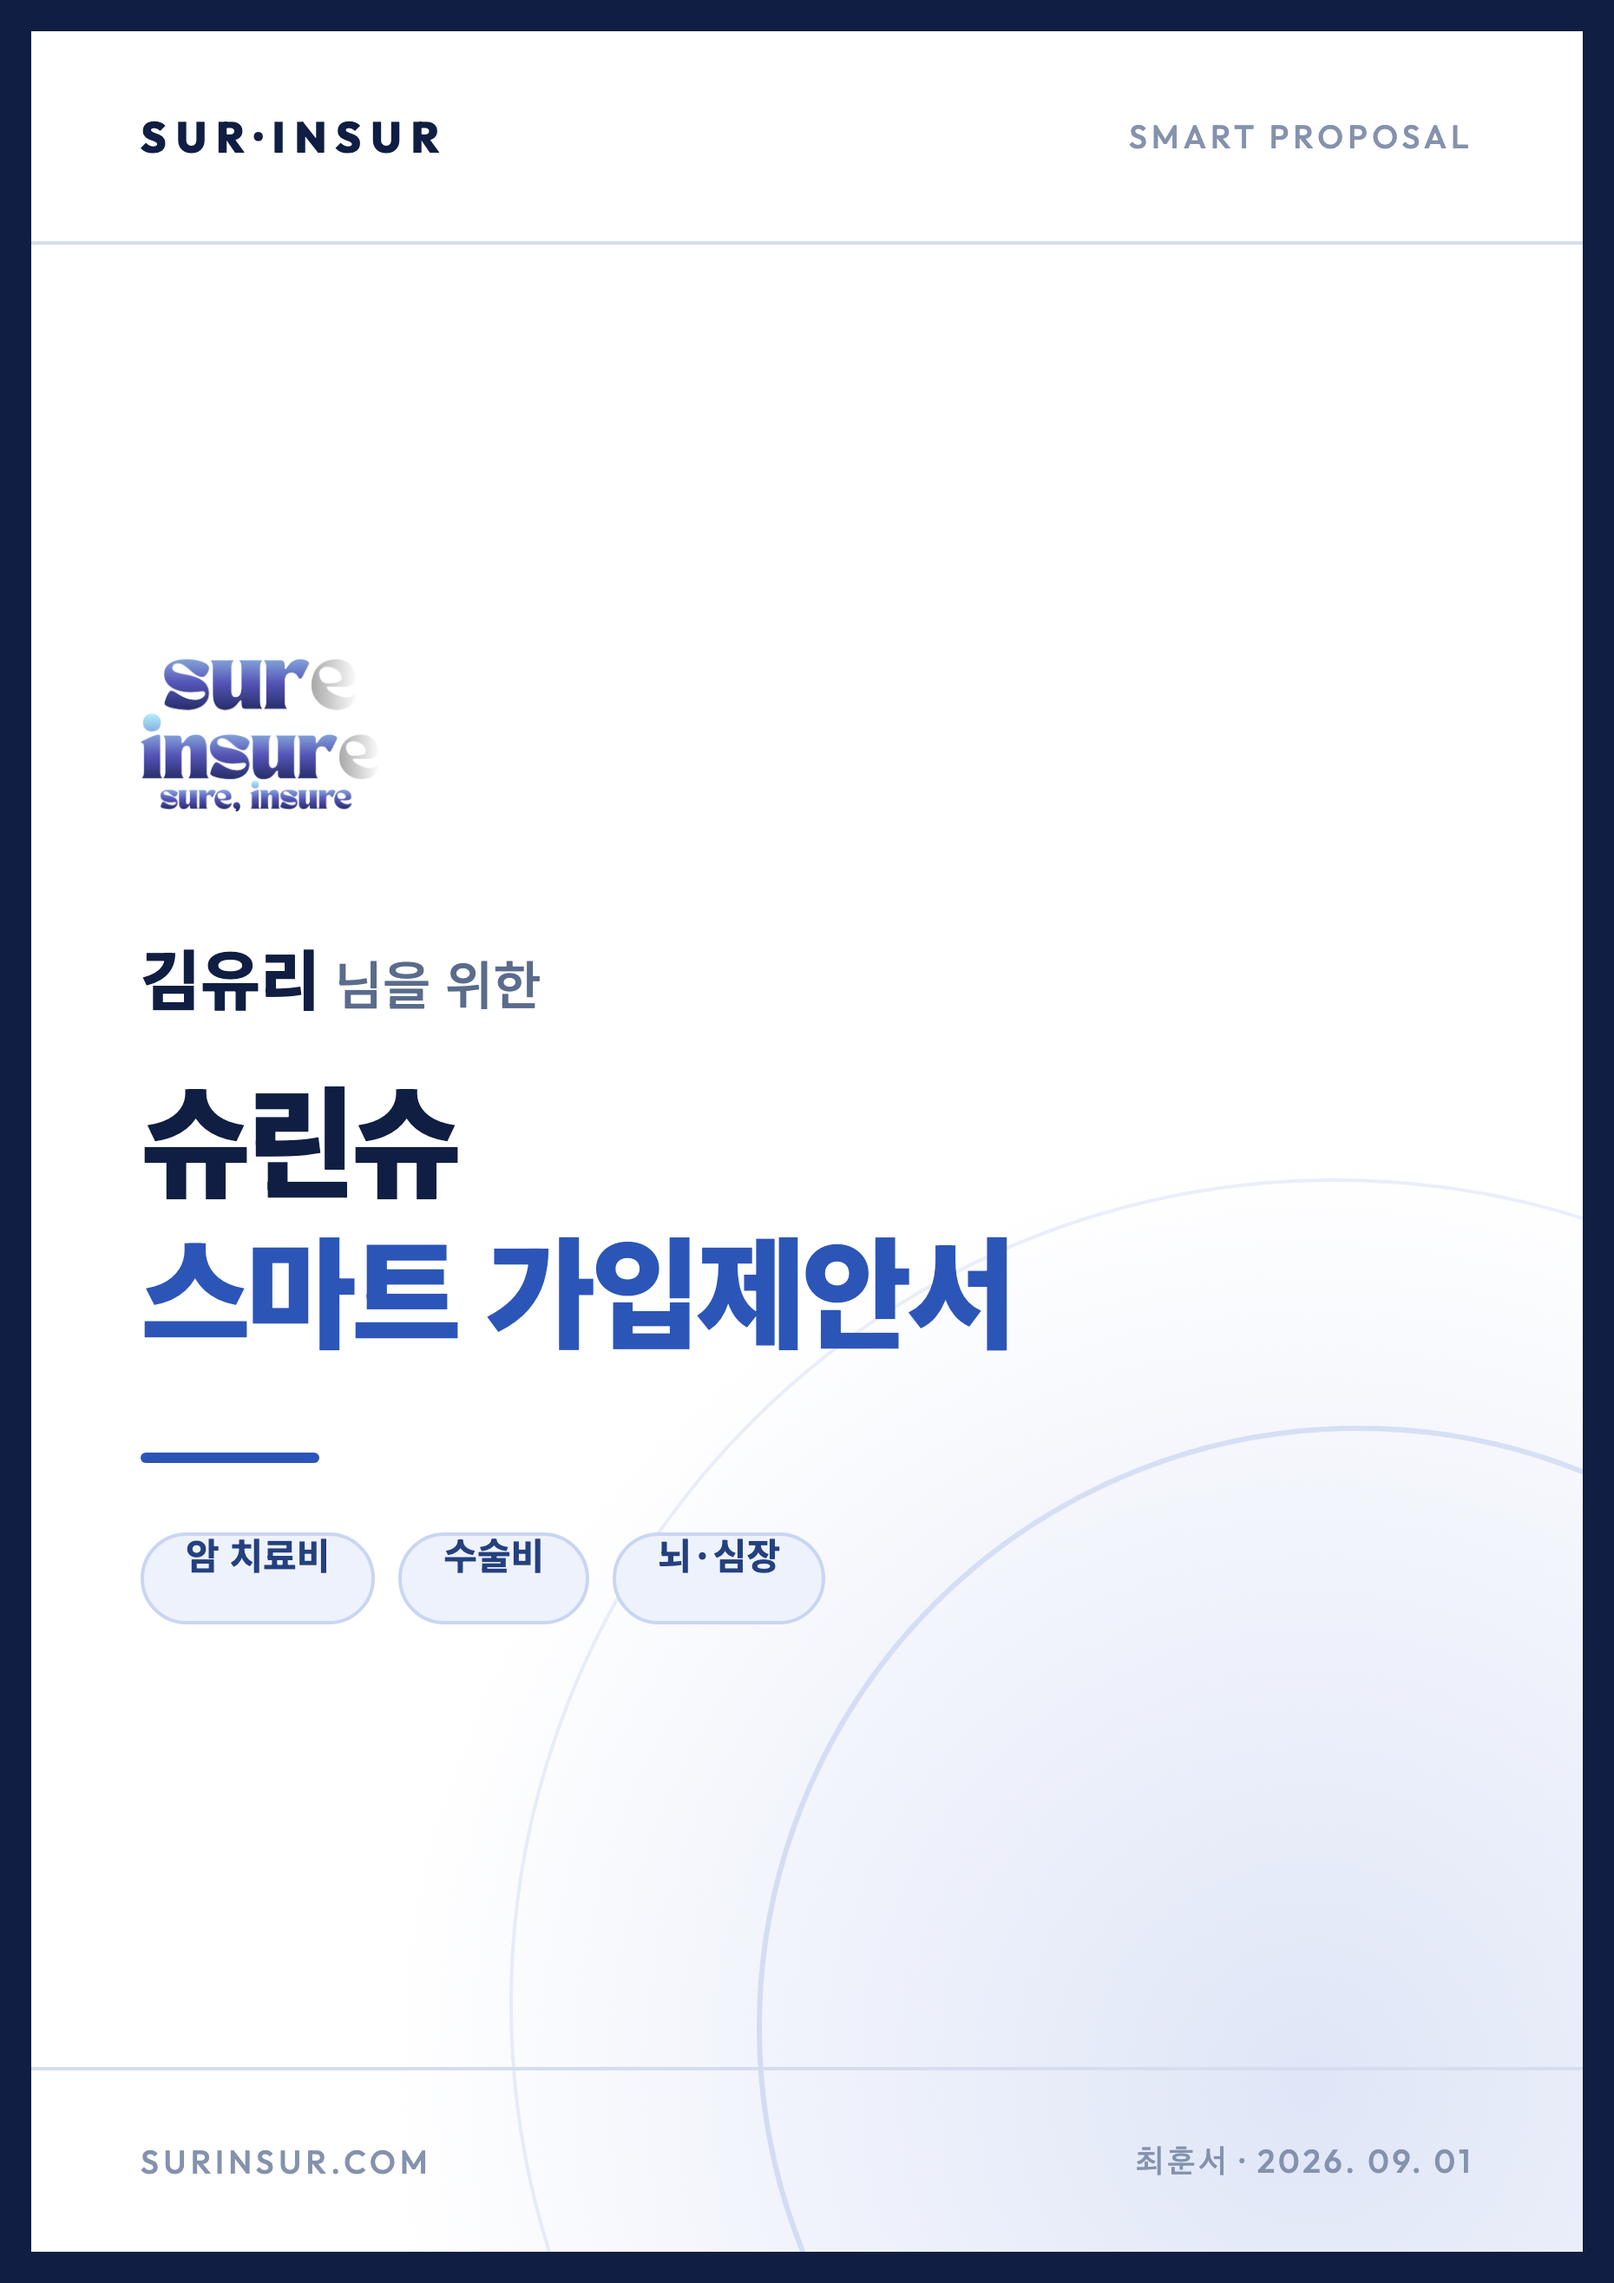
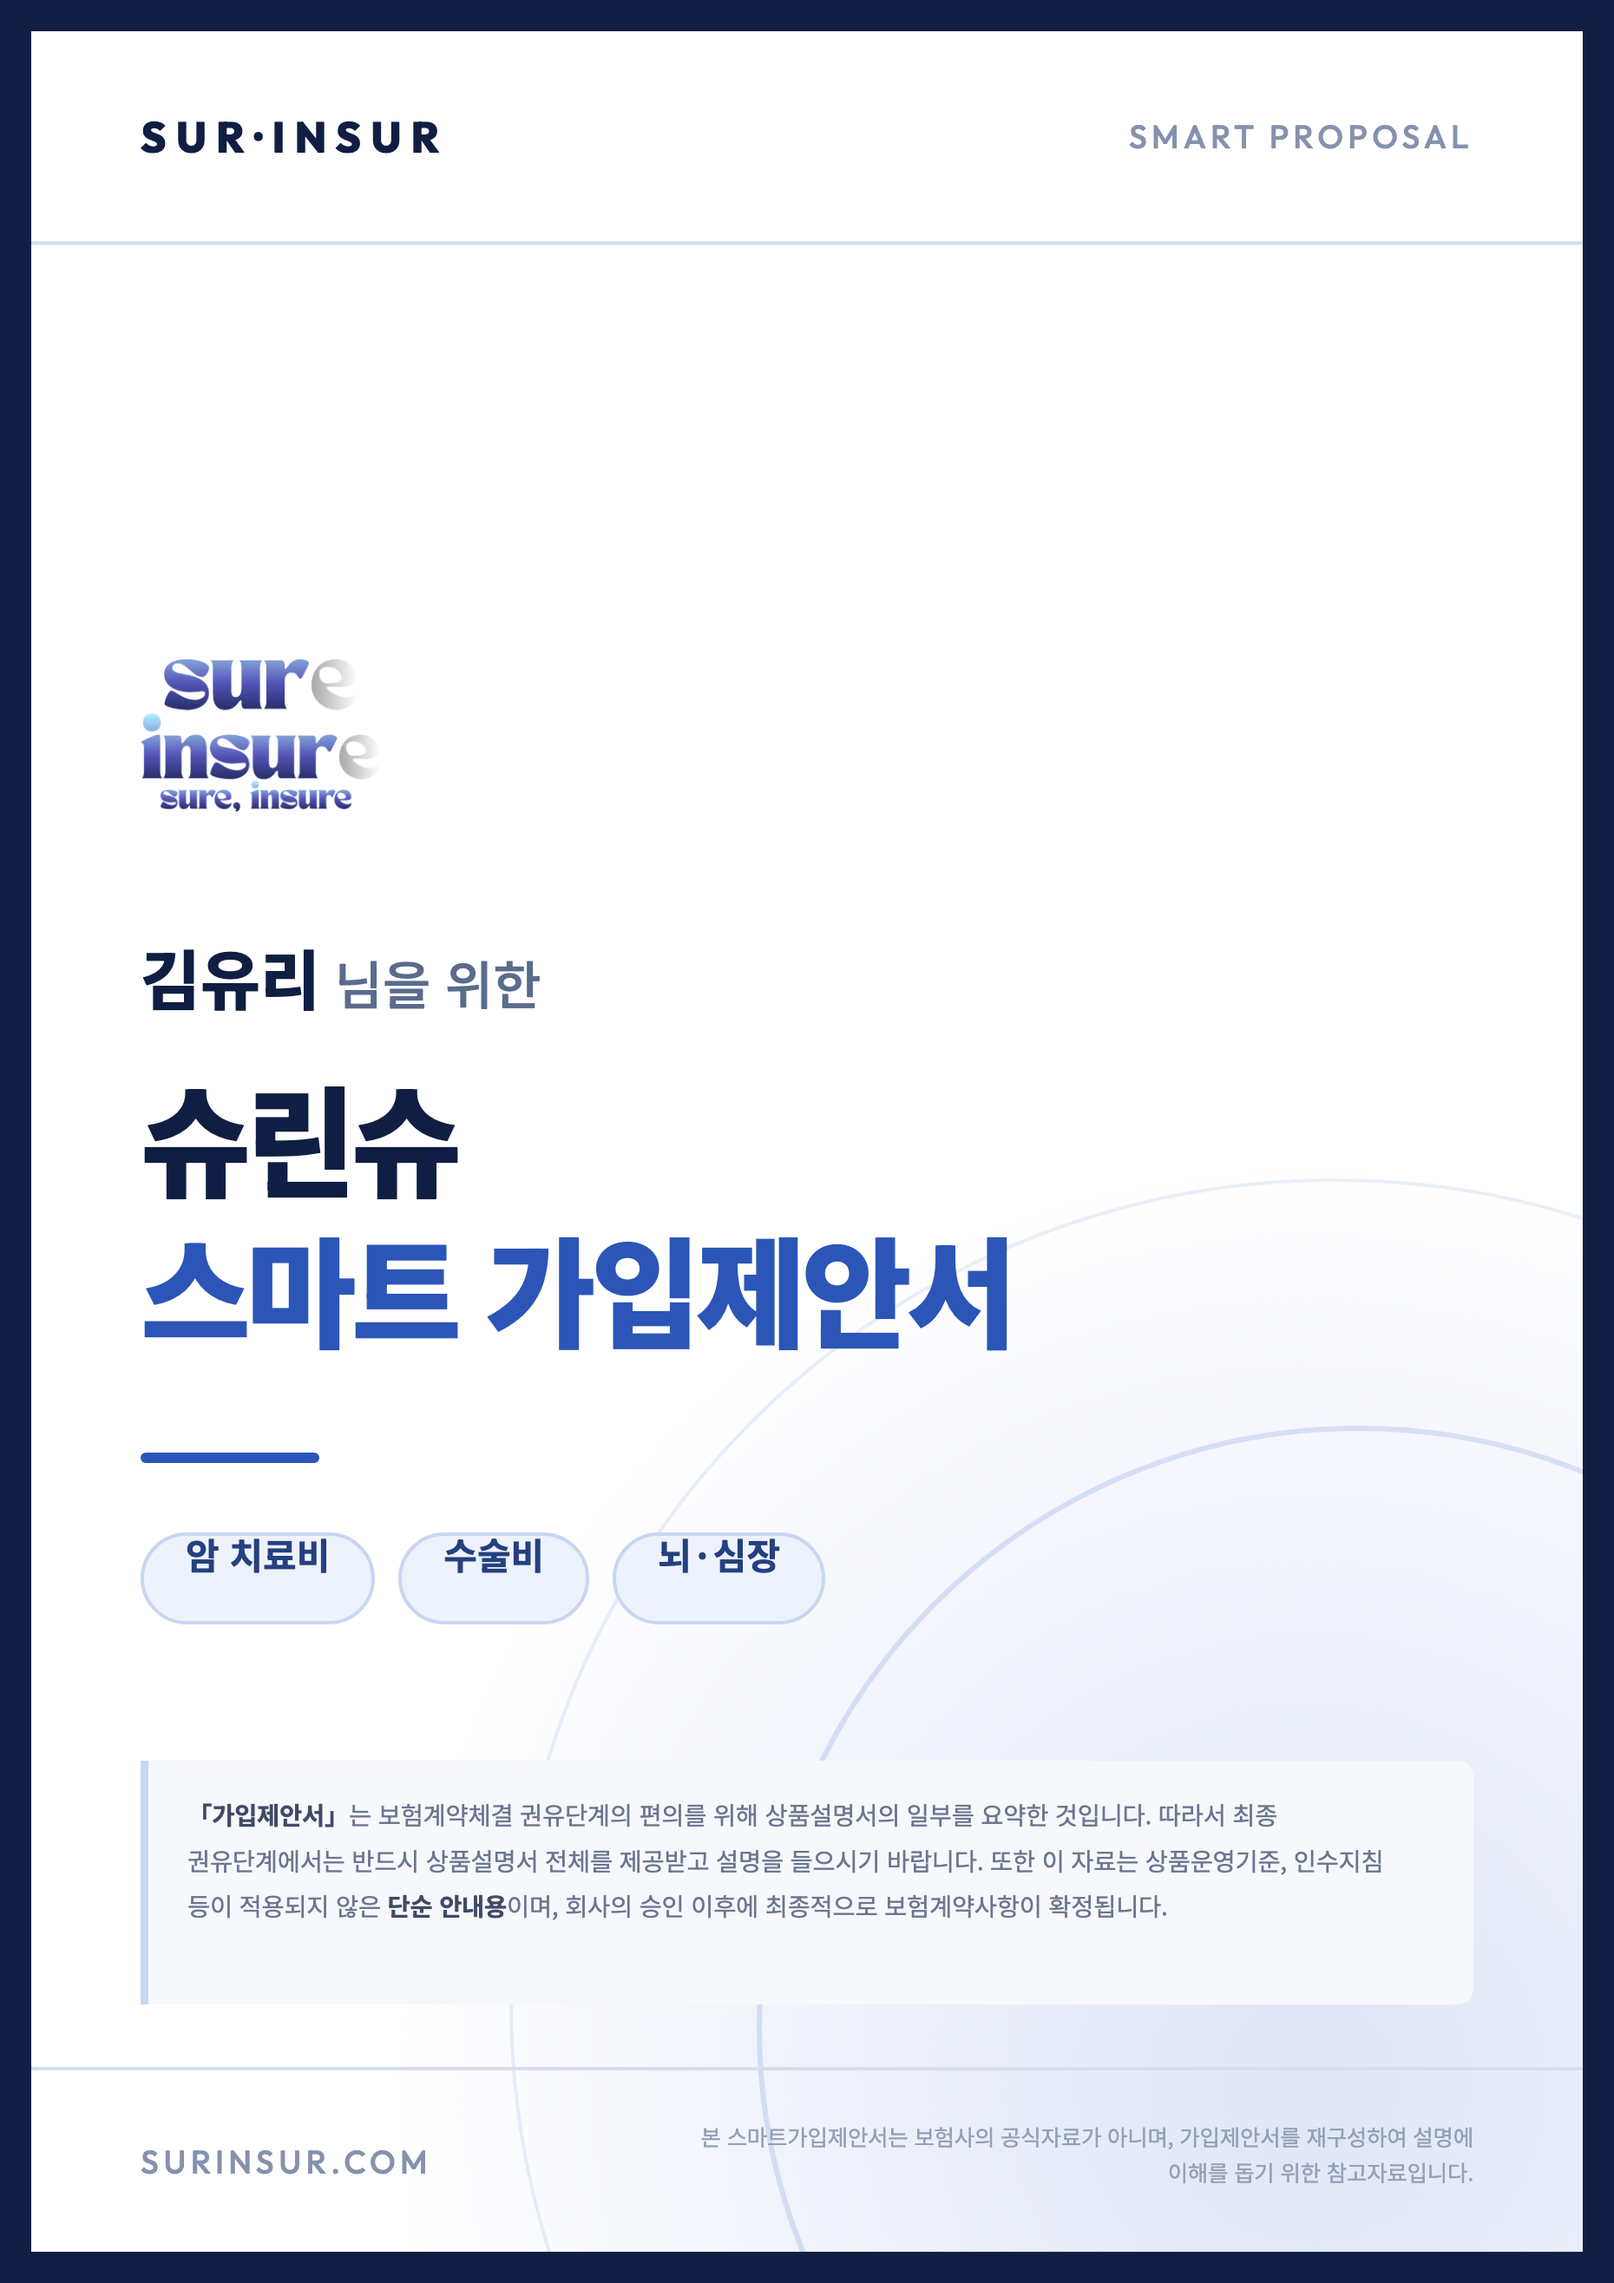
feat(PDF): 표지에 상품설명서 고지·참고자료 문구
- 중하단: 「가입제안서」는 상품설명서의 일부를 요약한 것이며 최종 권유단계에서는
  상품설명서 전체를 제공받아야 한다는 고지. 좌측 네이비 바를 둔 옅은 박스에 담았다.
- 꼬리말: 전문가명·날짜를 빼고 "본 스마트가입제안서는 보험사의 공식자료가 아니며,
  가입제안서를 재구성하여 설명에 이해를 돕기 위한 참고자료" 문구로 교체.
  더 이상 쓰이지 않는 coverDateText()와 renderCoverCanvas의 expertName 인자 제거.
- 본문 꼬리말 파일 제목 23px → 16px(30% 축소).
- 여러 줄 문구도 html2canvas 밀림을 받으므로 아래 여백을 그만큼 더 뒀다
  (고지 박스 pb 34 → 58px).
- 패치노트 v.0901·CHANGELOG에 반영, 튜토리얼 표지 스크린샷 재생성.

Changed region(s): [[0.1247, 0.7792, 0.8419, 0.8415], [0.686, 0.935, 0.9043, 0.9662], [0.0624, 0.7792, 0.0935, 0.8727]]

diff --git a/js/ui_renderer.js b/js/ui_renderer.js
@@ -1290,15 +1290,9 @@ function coverViewChips() {
         .filter(Boolean);
 }
 
-function coverDateText() {
-    const d = new Date();
-    const p = n => String(n).padStart(2, '0');
-    return `${d.getFullYear()}. ${p(d.getMonth() + 1)}. ${p(d.getDate())}`;
-}
-
 // 표지를 화면 밖에 만들어 캡처하고 지운다. 실제 레이아웃이 잡혀야 html2canvas가
 // 계산된 스타일을 제대로 복사하므로 display:none이 아니라 화면 밖으로 밀어 둔다.
-async function renderCoverCanvas(expertName) {
+async function renderCoverCanvas() {
     const customer = (window.__customerName || '고객').trim() || '고객';
     const chips = coverViewChips();
 
@@ -1343,11 +1337,31 @@ async function renderCoverCanvas(expertName) {
           </div>
         </div>
 
+        ${/* 상품설명서 고지 — 꼬리말 바로 위, 본문과는 떨어뜨려 배치한다.
+              여러 줄 본문이라 html2canvas가 글자를 아래로 미는 만큼 아래 여백을 넉넉히 둔다. */''}
+        <div style="position:absolute;left:84px;right:84px;bottom:190px;
+             padding:24px 30px 58px;background:#F6F8FC;border-left:6px solid #C9D6F2;
+             border-radius:0 12px 12px 0;box-sizing:border-box">
+          <p style="margin:0;font-size:19px;line-height:1.85;color:#6B7690;letter-spacing:-.01em;
+             font-weight:400;word-break:keep-all">
+            <strong style="color:#3F4A66;font-weight:700">&#12300;가입제안서&#12301;</strong>는 보험계약체결 권유단계의 편의를 위해
+            상품설명서의 일부를 요약한 것입니다. 따라서 최종 권유단계에서는 반드시 상품설명서 전체를 제공받고
+            설명을 들으시기 바랍니다. 또한 이 자료는 상품운영기준, 인수지침 등이 적용되지 않은
+            <strong style="color:#3F4A66;font-weight:700">단순 안내용</strong>이며, 회사의 승인 이후에 최종적으로
+            보험계약사항이 확정됩니다.
+          </p>
+        </div>
+
         <div style="position:absolute;bottom:0;left:0;right:0;height:142px;padding:0 84px;
              display:flex;align-items:center;justify-content:space-between;
              border-top:3px solid #D5DDEE;box-sizing:border-box">
-          <span style="font:500 25px 'Outfit',sans-serif;letter-spacing:.14em;color:#8592AD">SURINSUR.COM</span>
-          <span style="font:500 25px 'Outfit',sans-serif;letter-spacing:.1em;color:#8592AD">${expertName ? expertName + ' &middot; ' : ''}${coverDateText()}</span>
+          <span style="font:500 25px 'Outfit',sans-serif;letter-spacing:.14em;color:#8592AD;
+                flex-shrink:0">SURINSUR.COM</span>
+          ${/* 공식 자료가 아니라는 점을 표지에서 먼저 밝힌다. 아래 여백은 밀림 보정. */''}
+          <span style="font-size:17px;line-height:1.6;color:#95A0B8;letter-spacing:-.01em;
+                text-align:right;max-width:640px;word-break:keep-all;padding-bottom:10px">본
+            스마트가입제안서는 보험사의 공식자료가 아니며, 가입제안서를 재구성하여
+            설명에 이해를 돕기 위한 참고자료입니다.</span>
         </div>
       </div>`;
     document.body.appendChild(host);
@@ -1408,7 +1422,7 @@ async function renderPageChromeCanvas({ title, fileTitle, pageNo, pageTotal }) {
         <div style="position:absolute;bottom:0;left:0;right:0;height:${PAGE_FOOT}px;padding:0 ${PAGE_PAD}px;
              display:flex;align-items:center;justify-content:space-between;gap:40px;
              border-top:3px solid #D5DDEE;box-sizing:border-box">
-          <span style="font-size:23px;font-weight:500;color:#8592AD;letter-spacing:-.01em;
+          <span style="font-size:16px;font-weight:500;color:#8592AD;letter-spacing:-.01em;
                 overflow:hidden;text-overflow:ellipsis;white-space:nowrap;min-width:0">${fileTitle || ''}</span>
           <span style="font:600 23px 'Outfit',sans-serif;letter-spacing:.1em;color:#8592AD;
                 flex-shrink:0">${String(pageNo).padStart(2, '0')} / ${String(pageTotal).padStart(2, '0')}</span>
@@ -1482,7 +1496,7 @@ window.exportAllAsPdf = async function () {
 
         // ── 표지 ──
         if (btnLabel) btnLabel.textContent = '표지 만드는 중…';
-        const cover = await renderCoverCanvas(assets.captureExpertName);
+        const cover = await renderCoverCanvas();
         // 표지는 A4 비율로 만들었으므로 여백 없이 그대로 채운다.
         pdf.addImage(downscaleForPdf(cover, PW).toDataURL('image/jpeg', 0.92), 'JPEG',
                      0, 0, PW, PH, undefined, 'FAST');

diff --git a/patchnote.html b/patchnote.html
@@ -260,6 +260,11 @@
                   위에는 <strong>화면 이름</strong>, 아래에는 <strong>원본 파일 제목과 쪽번호</strong>(02 / 04)가 들어갑니다. 표지와 같은 네이비 테두리를 둘러 네 장이 한 세트로 읽히도록 했어요. 담보가 없어 빠지는 탭이 있으면 쪽번호도 그에 맞춰 매겨집니다.</p>
                 </div>
                 <div class="change-item">
+                  <span class="tag tag-new">NEW</span>
+                  <p class="change-text"><strong>표지에 안내 문구를 넣었어요</strong><br>
+                  중하단에 <strong>&lsquo;「가입제안서」는 보험계약체결 권유단계의 편의를 위해 상품설명서의 일부를 요약한 것&rsquo;</strong>이라는 안내를, 맨 아래에는 <strong>&lsquo;본 스마트가입제안서는 보험사의 공식자료가 아니며, 가입제안서를 재구성하여 설명에 이해를 돕기 위한 참고자료&rsquo;</strong>라는 문구를 넣었습니다. 고객에게 그대로 건네도 오해가 없도록 표지에서 먼저 밝힙니다.</p>
+                </div>
+                <div class="change-item">
                   <span class="tag tag-improve">IMPROVE</span>
                   <p class="change-text"><strong>본문은 분석에만 집중하게 정리했어요</strong><br>
                   파일 정보 카드와 화면 제목 줄이 머리말·꼬리말과 같은 내용을 반복하고 있어서 <strong>PDF 본문에서는 뺐습니다</strong>. 이미지 한 장으로 저장할 때는 예전 그대로 남아요.</p>

diff --git a/index.html b/index.html
@@ -841,7 +841,7 @@
     <script src="js/surgery_renderer.js?v=20260826f"></script>
     <script src="js/surgery_dict_data.js?v=20260826a"></script>
     <script src="js/surgery_dict.js?v=20260831c"></script>
-    <script src="js/ui_renderer.js?v=20260831e"></script>
+    <script src="js/ui_renderer.js?v=20260901d"></script>
     <script src="js/main.js?v=20260831a"></script>
 
     <!-- ── ABOUT MODAL ── -->

diff --git a/CHANGELOG.md b/CHANGELOG.md
@@ -5,6 +5,7 @@
 ## [2026-09-01] PDF 표지 · 머리말/꼬리말
 - **기능 추가**: 전체 PDF 저장에 표지 페이지 추가(화이트 바탕 + 네이비 프레임, 옅은 글로우). "OOO님을 위한 / 슈린슈 스마트 가입제안서"와 가입된 분석 항목 칩을 배치. 고객명은 `window.__customerName`으로 노출하며, 추출 실패 시 '고객'.
 - **기능 추가**: 본문 각 장에 머리말(화면 이름)·꼬리말(원본 파일 제목, 쪽번호)과 표지와 동일한 네이비 프레임. 표지·프레임 모두 HTML→html2canvas 경로로 생성 — jsPDF 기본 폰트에 한글이 없어 벡터로는 파일 제목을 렌더할 수 없다.
+- **기능 추가**: 표지 중하단에 상품설명서 요약 고지, 꼬리말에 "보험사의 공식자료가 아니며 … 참고자료" 문구 배치(전문가명·날짜 표기는 제거).
 - **정리**: `forPdf` 플래그 도입. PDF 본문에서 파일 정보 카드(`#file-info`)와 화면 제목 줄을 제외(이미지 단독 저장 경로는 불변).
 - **성능**: PDF 삽입 직전 300dpi로 다운스케일. 기존 466dpi로 들어가던 캡처를 조정해 4장 3.1MB → 1.63MB.
 - **버그 수정**: html2canvas가 텍스트 베이스라인을 줄상자 아래에 붙여 그려 `.sg-chip`(질수·1종·2종)과 표지 칩의 글자가 아래로 밀리던 문제. 잉크의 절대 위치는 line-height에만 좌우되고 padding-bottom과 무관함을 실측으로 확인하고, 균형식 `pb = pt + 1.35em`을 적용(편차 3.67px → 0.14px).
